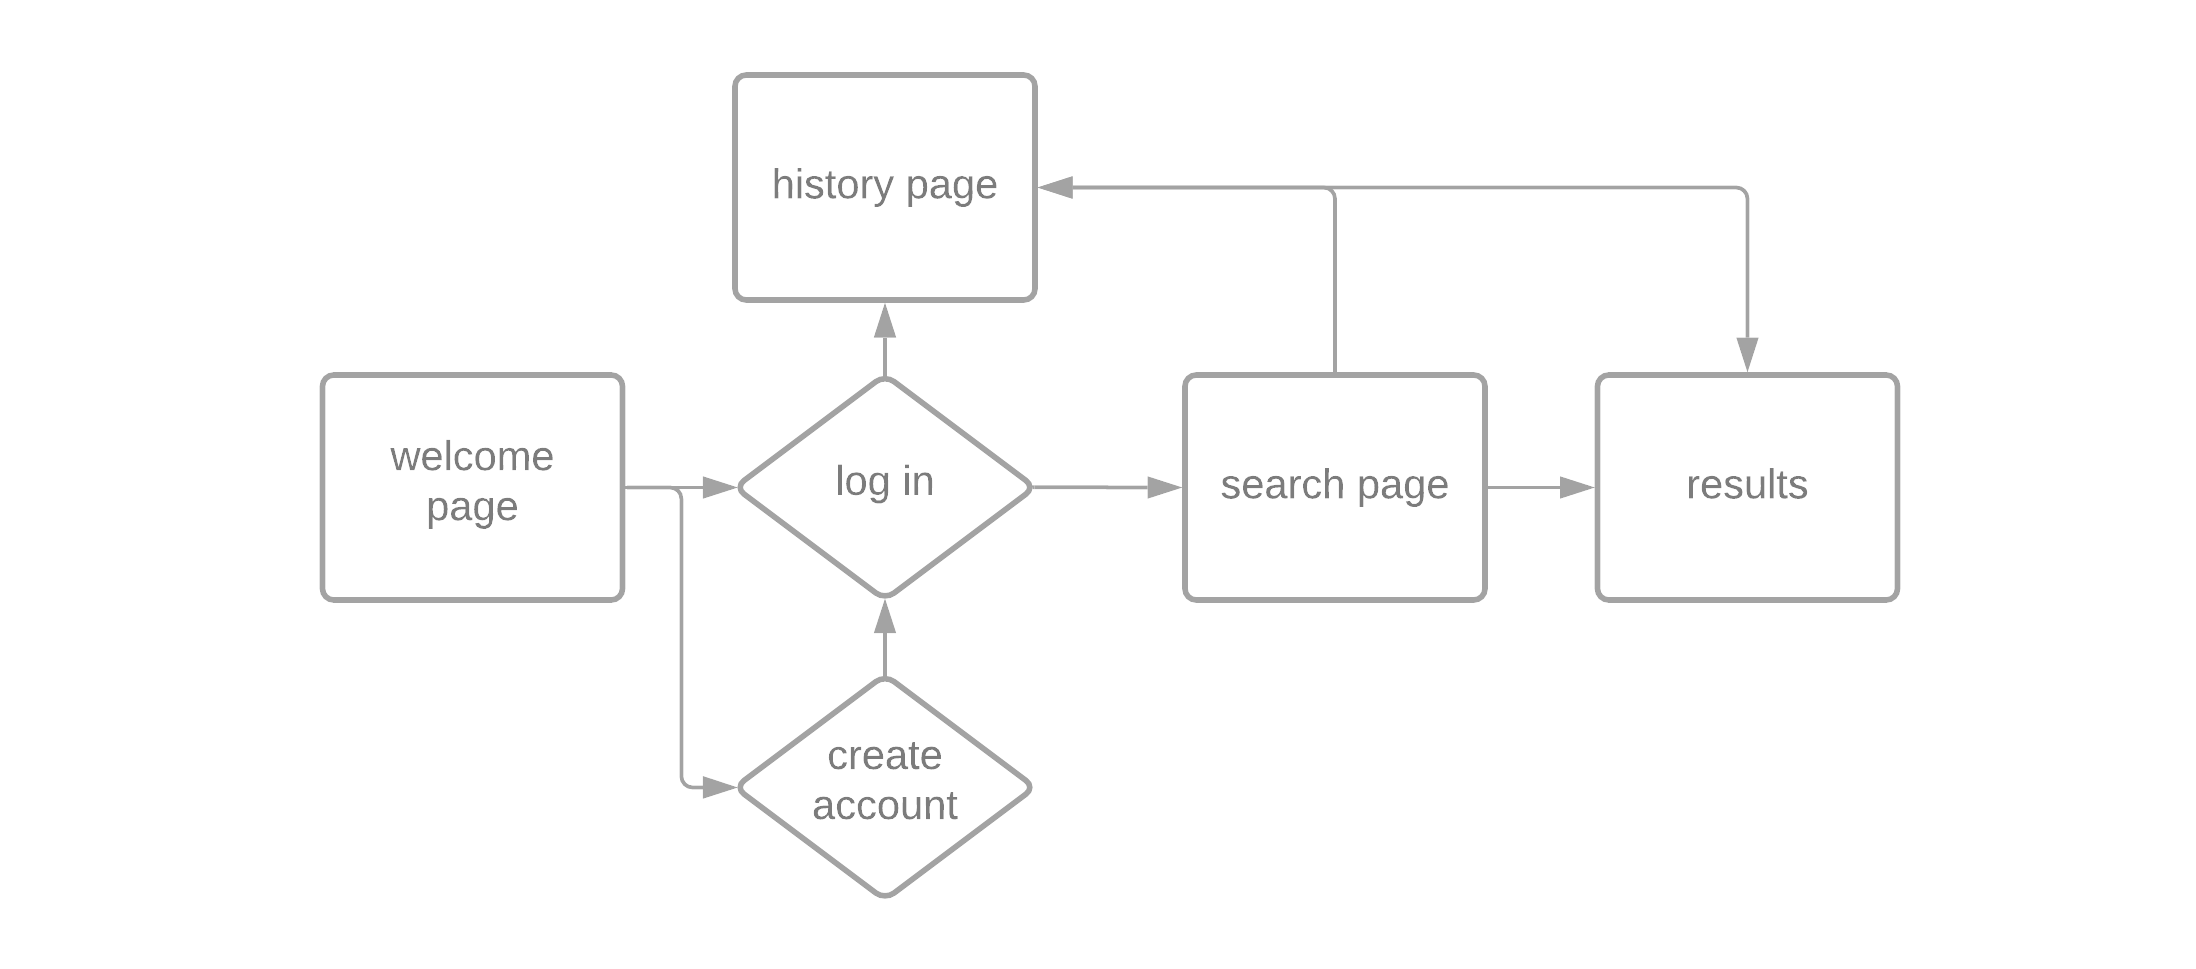
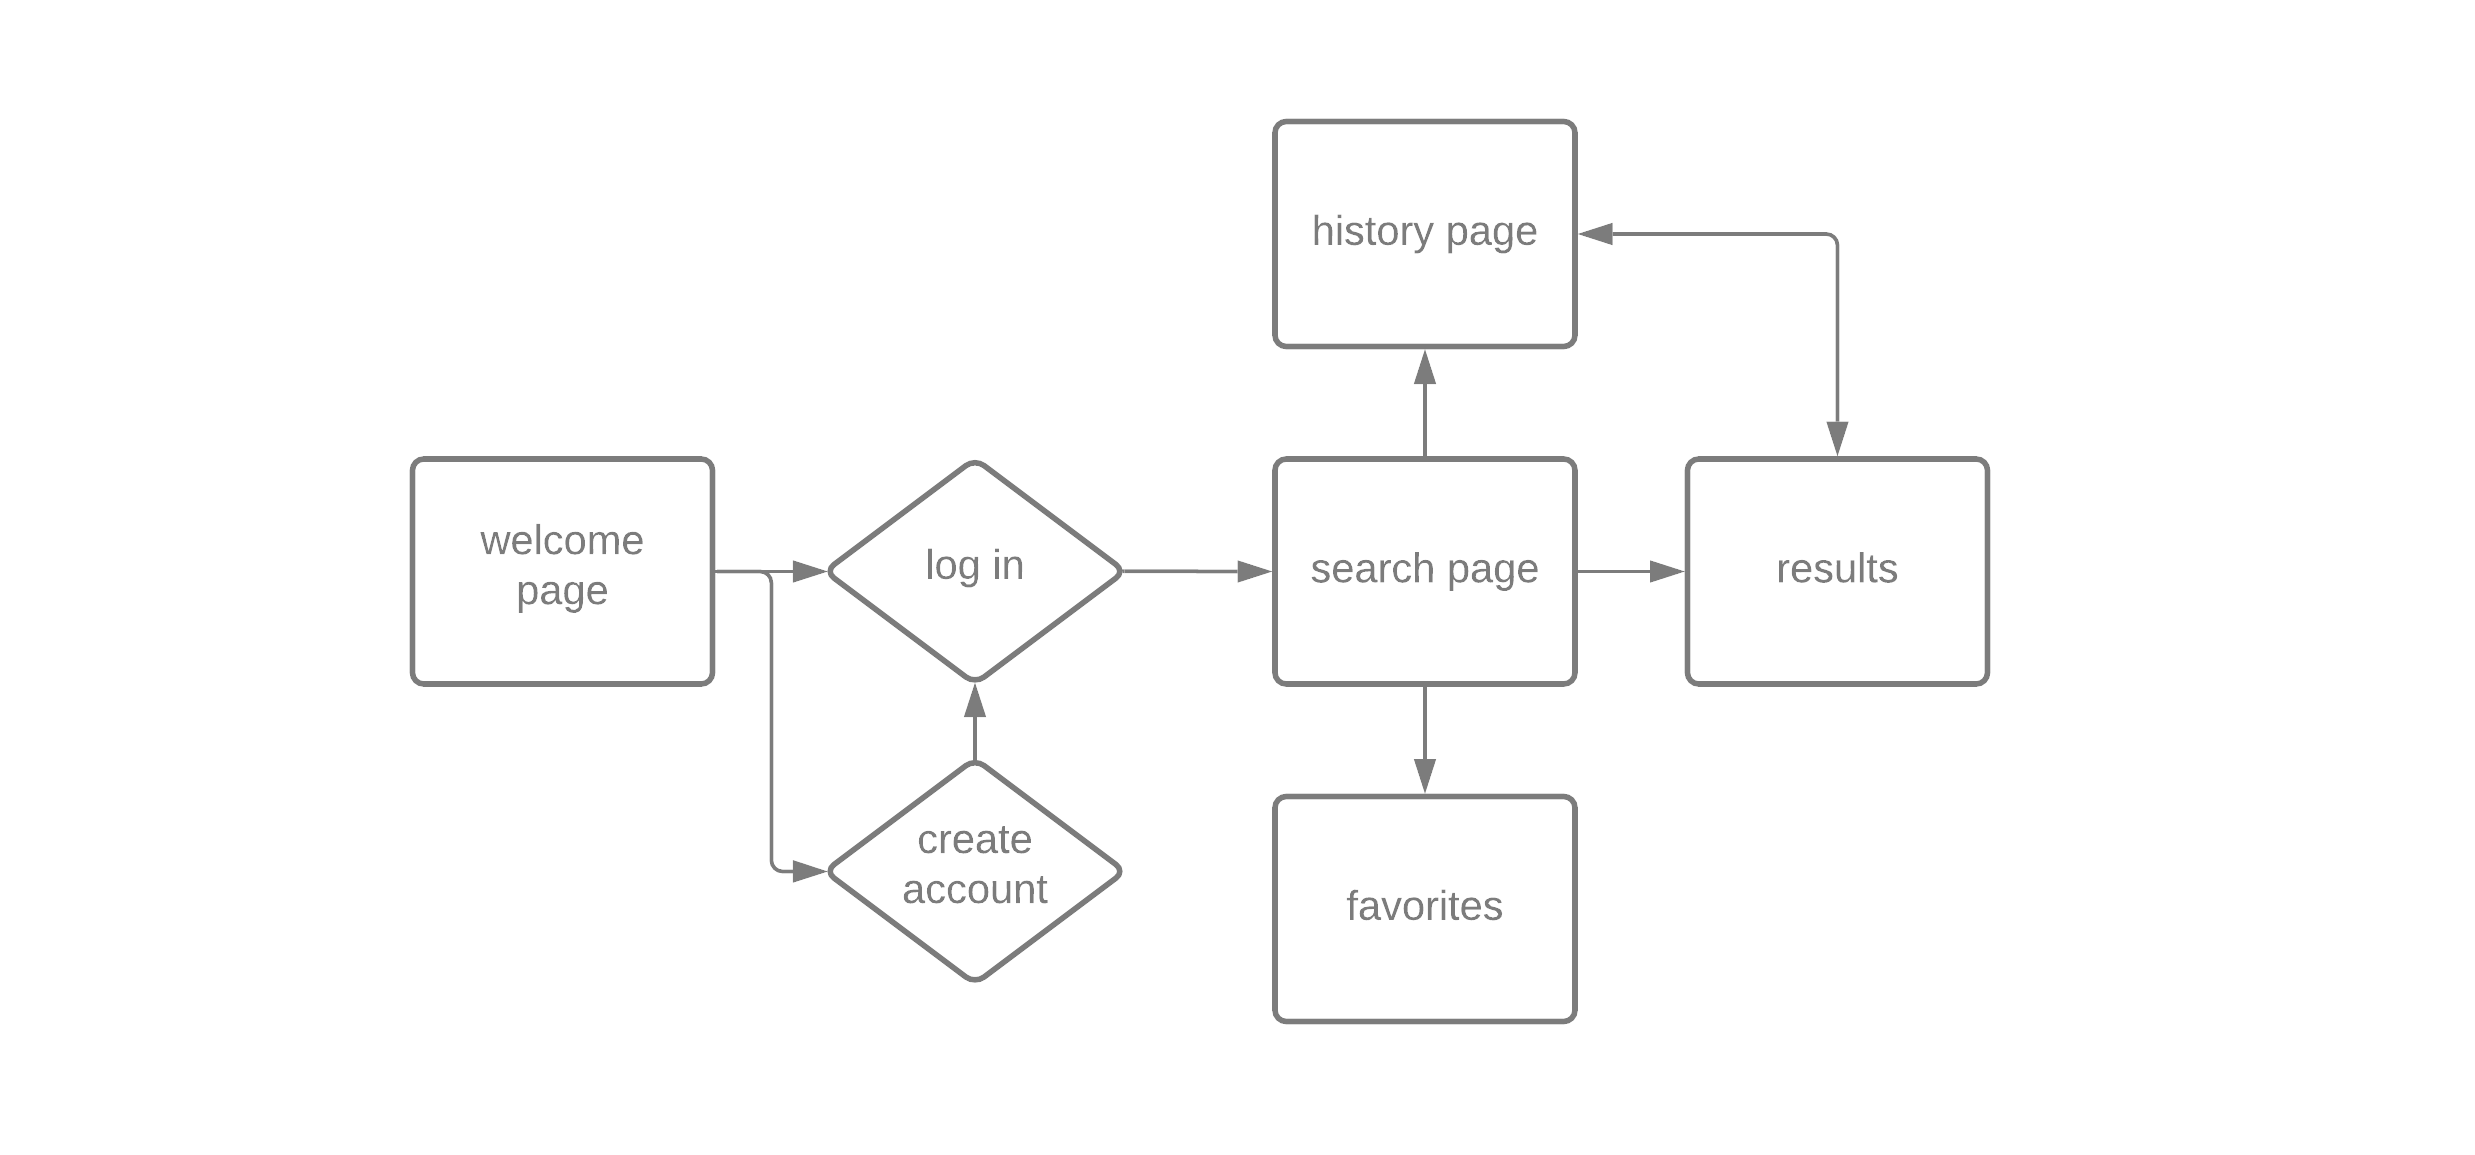
updated readme

diff --git a/readme.md b/readme.md
@@ -23,7 +23,7 @@ Spotify Web API (client credentials flow)
 
 ### Example of how to call/invoke the API, and a description of what data comes back
 
-The Spotify Web API uses REST principles to return JSON metadata from the Spotify Data Catalogue. I created a sample app.js file using the client credentials flow to produce a response that includes album information, given a Spotify album ID number. The client credentials flow does not ask the site user for their Spotify information; it only authenticates the request via the developer(client) credentials.
+The Spotify Web API uses REST principles to return JSON metadata from the Spotify Data Catalogue. The client credentials flow, which I will be using for this project, does not ask the site user for their Spotify information; it only authenticates the request via the developer(client) credentials. Below is sample data that I created that includes the GET album method, given a Spotify album ID number. For my actual project, I will be using the GET search method.
 
 ```sh
 {
@@ -108,14 +108,15 @@ The Spotify Web API uses REST principles to return JSON metadata from the Spotif
 
 ## MVP goals
 
-- create user database for storing user login data
-- set up user form to successfully call Spotify Web API to GET albums from a selected genre for a certain year**
-- create one-to-many relationship between 1 user and many result inputs
-- save user result inputs to results database, and make a page to display the user's past searches
+- create users database for storing user login data
+- create favorites database for storing user-favorited tracks (1:M one user can have many favorites)
+- create results database for storing user's past search queries for genre and year (1:M one user can have many past search queries)
+- use Spotify Web API's GET search tracks to populate results for a user-selected year and genre
+- using the user data stored in the database, make a page to display the user's past searches and a page displaying their favorited tracks
 
 ### Stretch goals
-- sort albums by popularity (this can be returned from GET albums) OR instead of grabbing entire album, grab most popular song from album (this is part of GET track operation)
-- explore including a "play" link or option (not sure how this works within the API, so I need to do more research)
+- sort tracks by popularity (this can be returned from GET albums) OR instead of grabbing entire album, grab most popular song from album (this is part of GET track operation)
+- explore including a link to the open spotify version of the track (this link is included in the API return)
 
 ## Potential roadblocks
 
